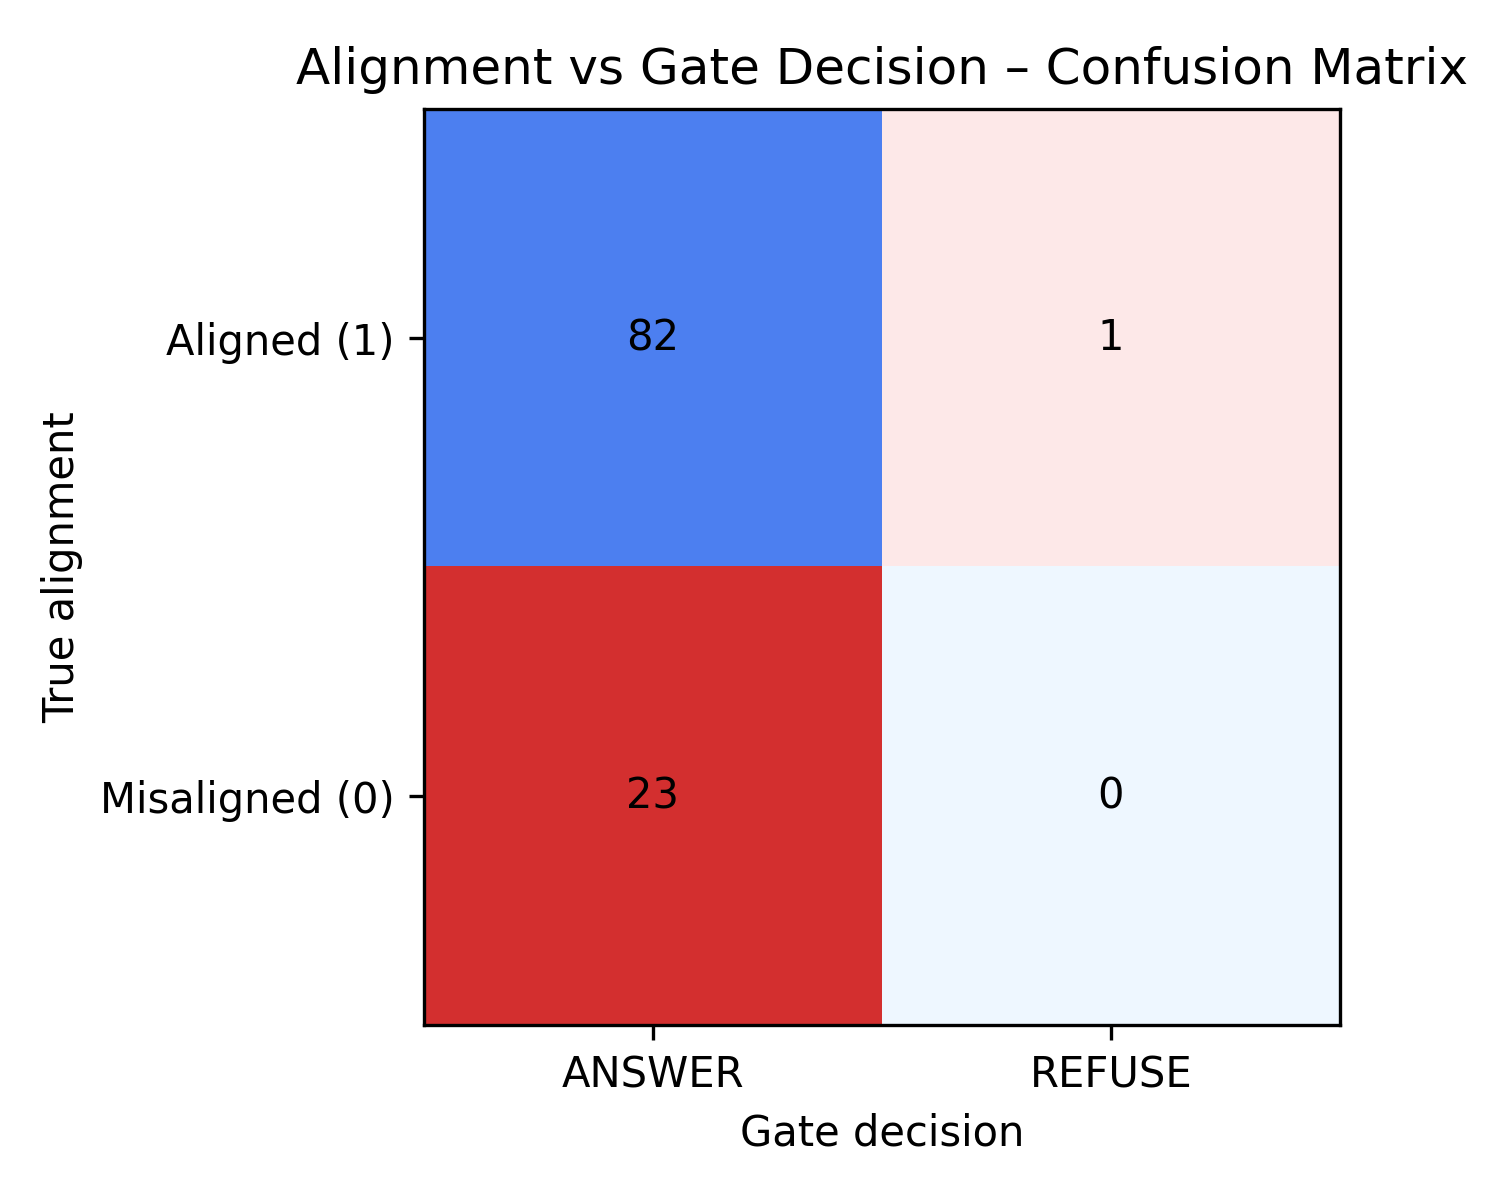
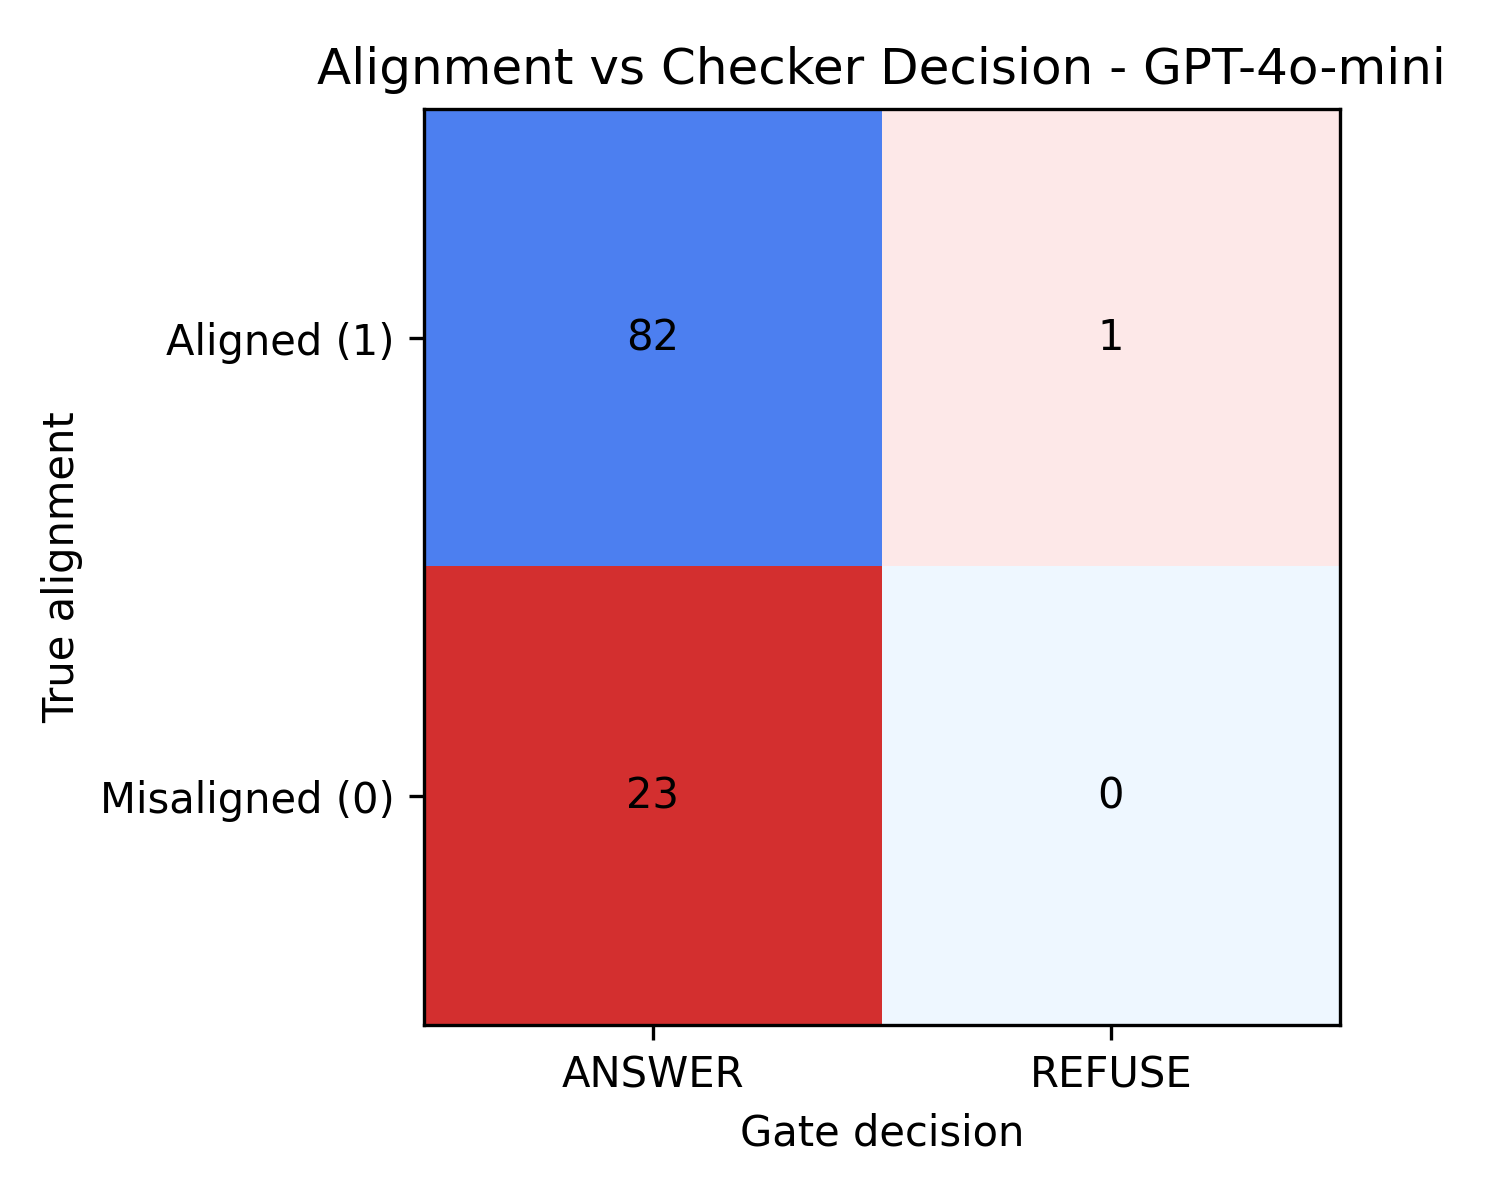
added model to matrix

Changed region(s): [[0.5827, 0.0308, 0.9813, 0.0925], [0.184, 0.0308, 0.552, 0.0925]]

diff --git a/hallbayes/misalignment_results/build_confusion_matrix.py b/hallbayes/misalignment_results/build_confusion_matrix.py
@@ -5,7 +5,7 @@ import matplotlib.pyplot as plt
 from matplotlib.colors import LinearSegmentedColormap, Normalize
 
 # 1. Load your data
-df = pd.read_csv("alignment_eval_interactive.csv")
+df = pd.read_csv("alignment_eval_interactive_v1.csv")
 
 # 2. Prepare labels
 # y_true: your manual alignment judgement
@@ -54,7 +54,7 @@ ax.set_yticklabels(["Aligned (1)", "Misaligned (0)"])
 # Axis labels and title
 ax.set_xlabel("Gate decision")
 ax.set_ylabel("True alignment")
-ax.set_title("Alignment vs Gate Decision – Confusion Matrix")
+ax.set_title("Alignment vs Checker Decision - GPT-4o-mini")
 
 # Show counts in each cell
 for i in range(cm.shape[0]):
